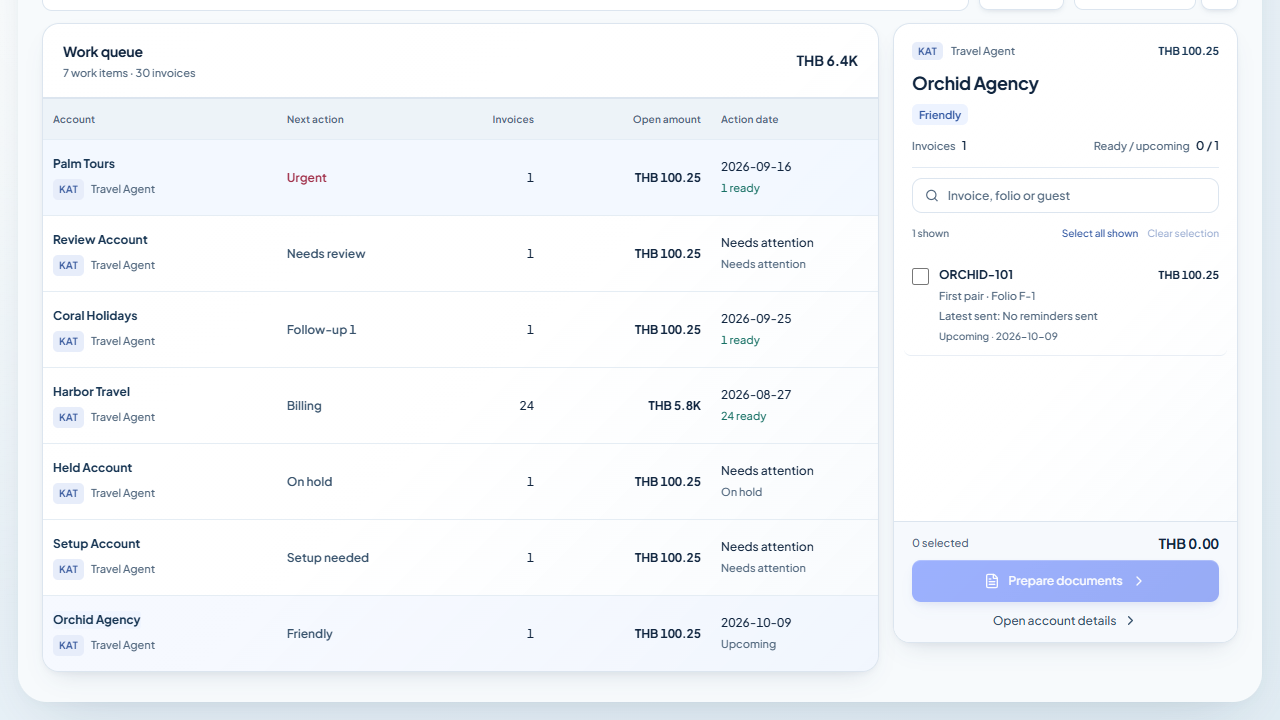
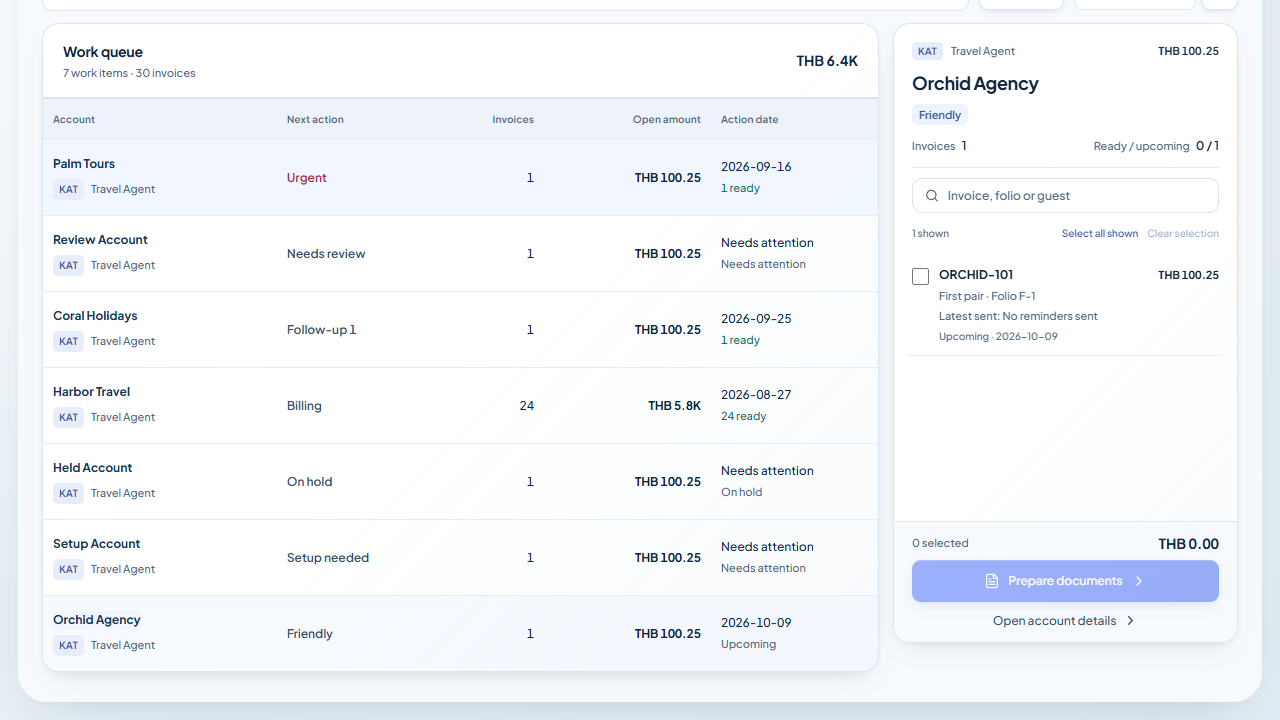
Record deployed Work queue expansion verification

diff --git a/docs/PROJECT_STATUS.md b/docs/PROJECT_STATUS.md
@@ -1,7 +1,8 @@
 ## 26 September 2026 — Unclipped Work queue
 
 - Removed desktop/tablet viewport caps from the account work table. Rows now expand naturally and use page scrolling instead of a short nested scroll box. Route-scoped overflow clipping preserves the rounded shell without trapping sticky positioning; the invoice panel follows page scrolling with a measured offset that keeps its actions reachable on short screens.
-- Reproduced clipping before the fix (573 px of rows in a 300 px viewport). TypeScript/build and all eight Collections browser cases pass, including new 1440×600, 1280×720 and 900×720 table-expansion/last-account checks plus the prior selection and invoice-room regressions. Short-screen renders inspected. No business-rule, source-data or permission changes. Deployment pending.
+- Reproduced clipping before the fix (573 px of rows in a 300 px viewport). TypeScript/build and all eight Collections browser cases pass, including new 1440×600, 1280×720 and 900×720 table-expansion/last-account checks plus the prior selection and invoice-room regressions. Short-screen renders inspected. No business-rule, source-data or permission changes.
+- Deployed runtime `1ceb9f0bef4423ec03fe2b7e10f6ec043149f8e7`, Worker `d9100478-357e-4eae-82cb-6510811b0f63`, PR #88. Health/source and six anonymous boundaries passed; the three table-expansion/selection cases also passed against deployed assets with synthetic APIs.
 
 ## 26 September 2026 — Keep collection invoices readable on short screens
 
